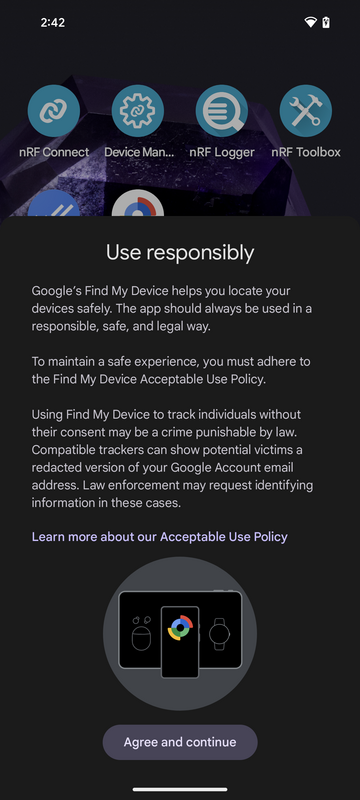
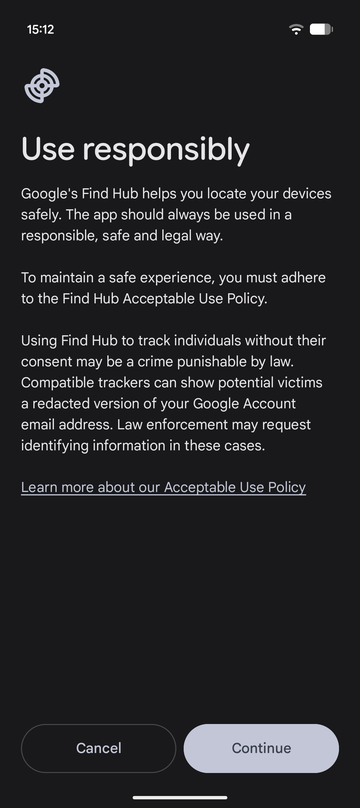
samples: bluetooth: fast_pair: locator_tag: update Find Hub testing steps
Updated the testing steps in the Fast Pair Locator Tag sample
documentation to align them with the new FHN provisioning flow in the
Find Hub app. The Acceptable Use Policy is now accepted on the Use
responsibly screen with the Continue button. The provisioning progress
is displayed on the Adding to Find Hub screen, after which the user
selects a category for the tag. The flow ends with the What next?
screen, which opens the Find Hub app with the Open Find Hub button.

Replaced the outdated screenshots with the ones from the new Find Hub
UI flow and added screenshots for the provisioning progress and the
category selection screens. Renamed the images with the fmd_app infix
to use the find_hub_app infix, as the Find My Device app was renamed
to Find Hub. Scaled all new images to 360x808 pixels to match the
resolution of the replaced images.

Ref: NCSDK-42080

Changed region(s): [[0.0306, 0.0, 0.9472, 1.0], [0.7944, 0.0, 0.9167, 0.0625], [0.0, 0.2188, 0.0306, 0.25]]

diff --git a/samples/bluetooth/fast_pair/locator_tag/README.rst b/samples/bluetooth/fast_pair/locator_tag/README.rst
@@ -661,38 +661,53 @@ Testing
 
    .. figure:: /images/bt_fast_pair_locator_tag_discoverable_notification.png
       :scale: 80 %
-      :alt: Fast Pair discoverable notification with support for the `Find Hub app`_
+      :alt: Fast Pair discoverable notification
 
 #. Initiate the connection and trigger the Fast Pair procedure by tapping the :guilabel:`Connect` button.
-   After the procedure is complete, you will see a pop-up with the Acceptable Use Policy for the `Find Hub app`_.
+   After the procedure is complete, you will see the **Use responsibly** screen with the Acceptable Use Policy for the `Find Hub app`_.
 
    .. note::
       If you use the default debug device model and you have the `nRF Connect Device Manager`_ application installed on your test Android device, you may get the Android notification from this mobile application about the new firmware update.
       You can ignore this notification, as it is not related to the Fast Pair provisioning process.
       To test the notification feature, follow the :ref:`fast_pair_locator_tag_testing_fw_update_notifications` test section.
 
-#. If you want to start the FHN provisioning, accept the Acceptable Use Policy by tapping the :guilabel:`Agree and continue` button.
+#. To start FHN provisioning, tap the :guilabel:`Continue` button to accept the Acceptable Use Policy.
 
    .. figure:: /images/bt_fast_pair_locator_tag_acceptable_use_policy.png
       :scale: 80 %
       :alt: The Find Hub Acceptable Use Policy
 
-#. Wait for the Android device's notification that indicates completion of the provisioning process.
+#. Wait for the FHN provisioning process to complete.
+   The **Adding to Find Hub...** screen is displayed while the provisioning is in progress.
+
+   .. figure:: /images/bt_fast_pair_locator_tag_provisioning_in_progress.png
+      :scale: 80 %
+      :alt: The Adding to Find Hub screen displayed during the FHN provisioning
+
+#. In the **Choose a category for your tag** screen, select a category for your locator tag (for example, :guilabel:`Keys`) and tap the :guilabel:`Continue` button.
+
+   .. figure:: /images/bt_fast_pair_locator_tag_category_selection.png
+      :scale: 80 %
+      :alt: The category selection screen for the locator tag
+
+#. Wait for the **What next?** screen that indicates the completion of the setup process.
+   Optionally, use this screen to configure additional settings for your locator tag, such as its name.
+   You can also change these settings later in the `Find Hub app`_.
 
    .. figure:: /images/bt_fast_pair_locator_tag_provisioning_complete.png
       :scale: 80 %
-      :alt: Notification about provisioning completion for the `Find Hub app`_
+      :alt: The What next screen displayed after the FHN provisioning completion
 
 #. Observe that **LED 2** is lit, which indicates that the device is provisioned as an FHN beacon and the Fast Pair advertising is disabled.
-#. Open the `Find Hub app`_ by tapping the :guilabel:`Open app` button.
+#. Open the `Find Hub app`_ by tapping the :guilabel:`Open Find Hub` button.
 #. In your accessory view, tap the :guilabel:`Find nearby` button.
 #. Observe in the Find nearby view that the grey shape shrinks when you move your Android device further away from your locator tag device.
    The shape also grows when you move your Android device closer to the locator tag.
    The closest proximity level is indicated by the device logo displayed inside the grey shape.
 
-   .. figure:: /images/bt_fast_pair_locator_tag_fmd_app_nearby_view.png
+   .. figure:: /images/bt_fast_pair_locator_tag_find_hub_app_nearby_view.png
       :scale: 80 %
-      :alt: Find nearby view of the `Find Hub app`_
+      :alt: Find nearby view of the Find Hub app
 
    .. note::
       If the :ref:`ug_bt_fast_pair_fhn_pf` is enabled for the chosen board target and you use the Android test device with the Bluetooth Low Energy CS support, the Find nearby view may also display the estimated distance from the locator tag in meters.
@@ -713,7 +728,7 @@ Testing
 #. Start the unprovisioning operation by tapping the :guilabel:`Remove from Find Hub` button at the bottom of the screen.
 #. Confirm the operation by tapping the :guilabel:`Remove` button in the **Remove from Find Hub** view.
 
-   .. figure:: /images/bt_fast_pair_locator_tag_fmd_app_unprovision.png
+   .. figure:: /images/bt_fast_pair_locator_tag_find_hub_app_unprovision.png
       :scale: 80 %
       :alt: Remove from Find Hub view
 
@@ -752,7 +767,7 @@ To test this feature, complete the following steps:
       Ranging: pairing completed (bonded) with ...
 
 #. Observe that **LED 2** is lit, which indicates that the device is provisioned as an FHN beacon.
-#. Open the `Find Hub app`_ by tapping the :guilabel:`Open app` button.
+#. Open the `Find Hub app`_ by tapping the :guilabel:`Open Find Hub` button.
 #. In your accessory view, tap the :guilabel:`Find nearby` button.
 #. Wait for the Bluetooth Low Energy CS ranging session to be established.
    In the terminal, observe the log messages confirming that the ranging capability exchange and configuration have been completed.
